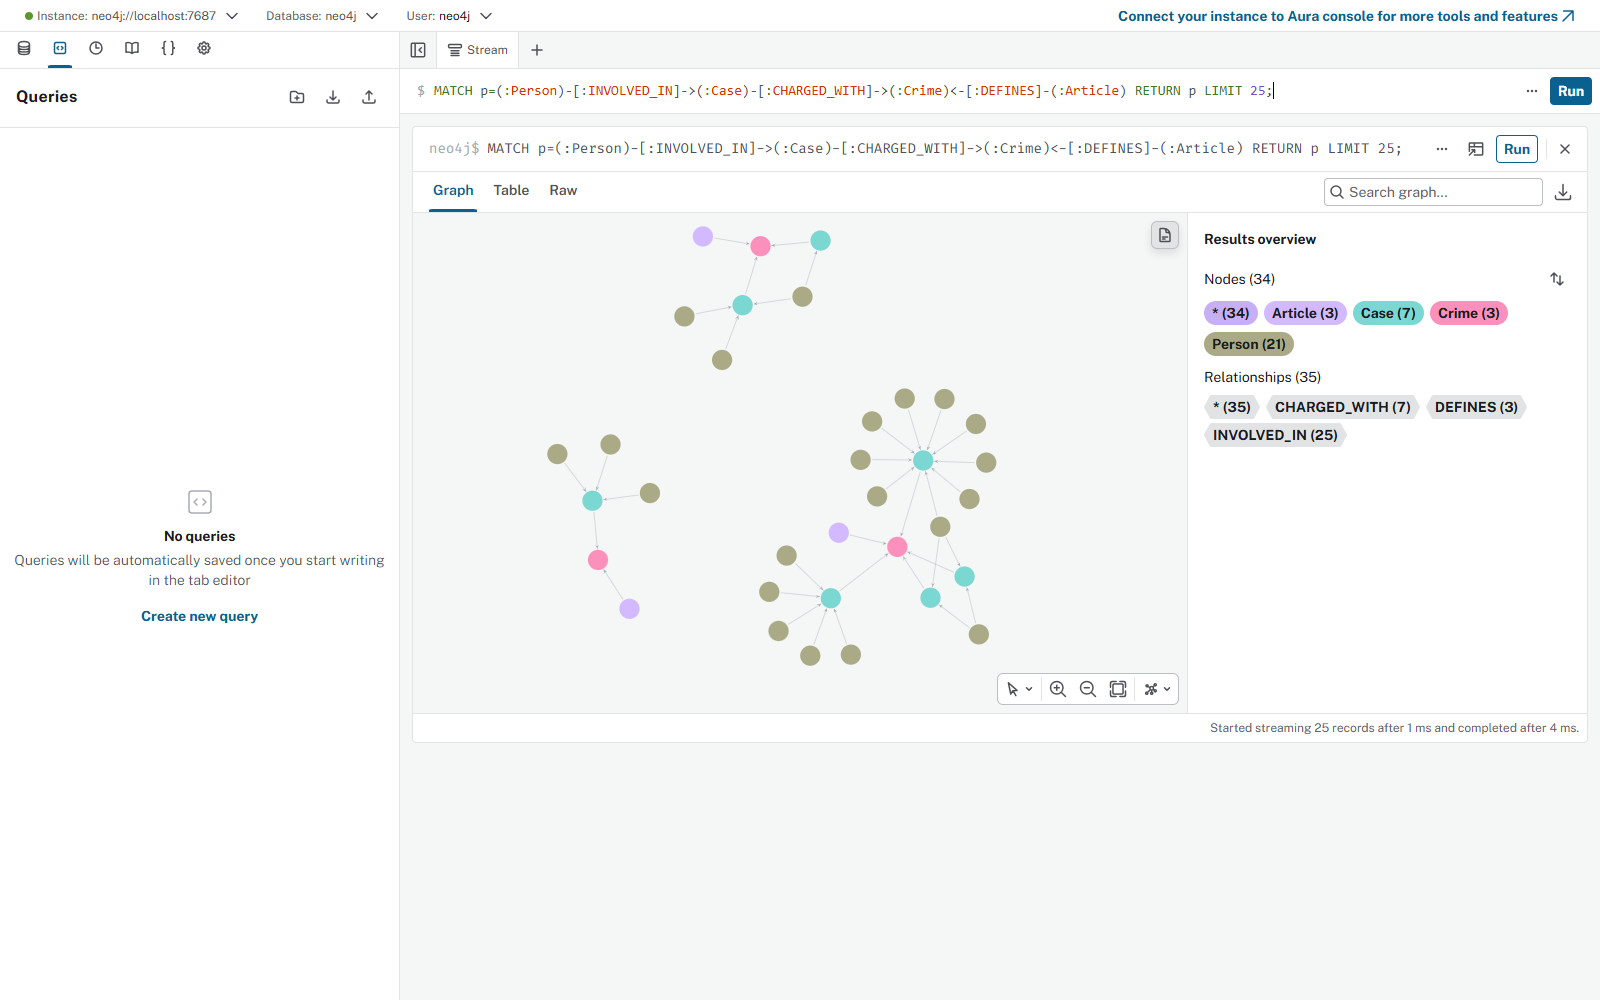
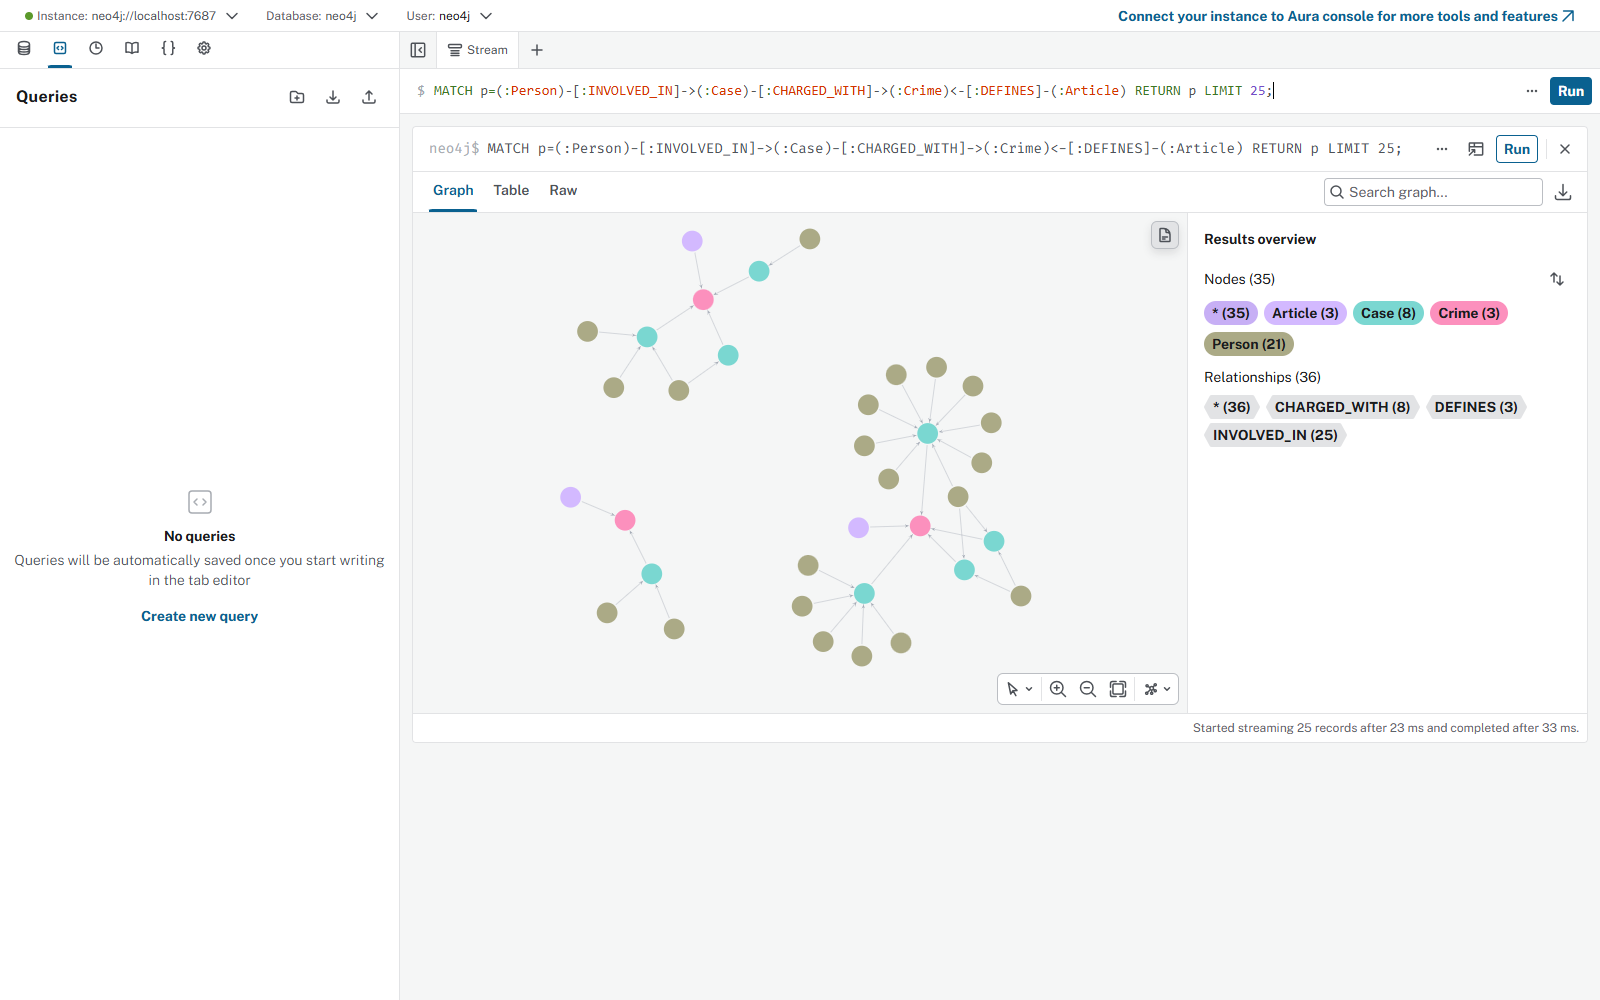
fix: Update day 19 lab

diff --git a/scripts/capture_neo4j_screenshots.py b/scripts/capture_neo4j_screenshots.py
@@ -1,8 +1,12 @@
 """Script to automate taking 3 required screenshots from Neo4j Browser using Playwright."""
 
+import sys
 import time
 from pathlib import Path
 from playwright.sync_api import sync_playwright
+
+if hasattr(sys.stdout, "reconfigure"):
+    sys.stdout.reconfigure(encoding="utf-8")
 
 CHROME_PATH = r"C:\Program Files\Google\Chrome\Application\chrome.exe"
 OUTPUT_DIR = Path("report/img")
@@ -87,8 +91,8 @@ def main():
         run_query(":clear", OUTPUT_DIR / "clear.png", wait_secs=1.0)
         (OUTPUT_DIR / "clear.png").unlink(missing_ok=True)
 
-        # 3. Q-D: One case with custom person (Cái Quang Huy)
-        q_d = "MATCH p=(:Person {name:'Cái Quang Huy'})-[:INVOLVED_IN]->(k:Case)-[:CHARGED_WITH]->(:Crime)<-[:DEFINES]-(a:Article) OPTIONAL MATCH q=(k)-[:INVOLVES|LOCATED_IN]->() RETURN p, q;"
+        # 3. Q-D: One case with custom person (Trần Thanh Tuấn - án tử hình vụ 36kg ma túy)
+        q_d = "MATCH p=(:Person {name:'Trần Thanh Tuấn'})-[:INVOLVED_IN]->(k:Case)-[:CHARGED_WITH]->(:Crime)<-[:DEFINES]-(a:Article) OPTIONAL MATCH q=(k)-[:INVOLVES|LOCATED_IN]->() RETURN p, q LIMIT 20;"
         run_query(q_d, OUTPUT_DIR / "kg_my_case.png", wait_secs=6.0)
 
         browser.close()

diff --git a/report/REPORT_KG.md b/report/REPORT_KG.md
@@ -69,7 +69,7 @@ Với câu hỏi đơn nguồn (single-hop), thông tin nằm gọn trong một 
   cl.number: 4
   cl.penalty: "phạt tù 20 năm, tù chung thân hoặc tử hình"
   ```
-- **Nguyên nhân:** Lỗi này nằm ở bước Retrieval của Flat RAG. Vector search tìm kiếm theo độ tương đồng ngữ nghĩa của câu hỏi. Câu hỏi nhắc tên "Cái Quang Huy" nên cả 3 chunk vector trả về đều thuộc bài báo. Chunk văn bản của Điều 250 BLHS không hề chứa cái tên "Cái Quang Huy", do đó điểm tương đồng vector rất thấp và bị văng ra khỏi top-k. GraphRAG xử lý được nhờ bước Thiết kế ontology: đưa tội danh "vận chuyển trái phép chất ma túy" làm node cầu nối `Crime`, cho phép nhảy từ vụ án sang Điều 250 và bóc các khoản tương ứng.
+- **Nguyên nhân:** Lỗi này nằm ở bước Retrieval của Flat RAG. Vector search tìm kiếm theo độ tương đồng ngữ nghĩa của câu hỏi. Câu hỏi nhắc tên "Cái Quang Huy" nên cả 3 chunk vector trả về đều thuộc bài báo. Chunk văn bản của Điều 250 BLHS không hề chứa cái tên "Cái Quang Huy", do đó điểm tương đồng vector rất thấp và bị văng ra khỏi top-k. Hiện tượng thiếu ngữ cảnh luật này cũng tương tự khi xét trường hợp của Trần Thanh Tuấn (vụ 36kg ma túy ở câu Q2): bản tin báo chí chỉ nêu mức án sơ thẩm tử hình, còn để biết căn cứ điều luật và khung hình phạt tăng nặng (khoản 4 Điều 251 BLHS) thì vector search hoàn toàn bất lực nếu không có đồ thị định tuyến. GraphRAG xử lý triệt để được nhờ bước Thiết kế ontology: đưa tội danh làm node cầu nối `Crime`, cho phép nhảy từ vụ án sang điều luật tương ứng và tìm ra khung hình phạt cao nhất.
 - **Đề xuất sửa:** Với văn bản pháp lý, không thể chỉ trông cậy vào vector search thuần túy. Nếu không có đồ thị, pipeline RAG bắt buộc phải có bước nhận diện thực thể tội danh bằng mô hình chuyên biệt rồi truy vấn thêm văn bản luật vào ngữ cảnh, hoặc chấp nhận dùng Knowledge Graph để định tuyến quan hệ có cấu trúc.
 
 ### Lỗi E5: Giới hạn truy xuất diện rộng ở câu hỏi tổng hợp (Aggregation Bottleneck)
@@ -85,12 +85,11 @@ Với câu hỏi đơn nguồn (single-hop), thông tin nằm gọn trong một 
   WHERE s.name = 'MDMA'
   RETURN k.name, r.amount;
   ```
-  Kết quả trả về:
+  Kết quả trả về gồm các vụ án trọng điểm:
   ```
   k.name: "Vụ vận chuyển hơn 10kg ma túy từ Đức về Việt Nam qua sân bay Nội Bài", amount: "hơn 9,6kg"
   k.name: "Vụ mua bán trái phép chất ma túy do Lê Minh Thành và đồng phạm thực hiện tại Hà Nội", amount: "5 viên"
   k.name: "Vụ án sai phạm tại Viện Pháp y tâm thần Trung ương", amount: "0,686g"
-  k.name: "Vụ triệt phá 8 đường dây ma túy liên quan đến Hoàng Nato tại TP.HCM", amount: "khoảng 100g ma túy tổng hợp"
   ```
 - **Nguyên nhân:** Lỗi này nằm ở cả bước Retrieval (tham số top_k=3) và Thiết kế Ontology ban đầu. Dữ liệu về chất MDMA phân tán ở nhiều bài viết độc lập. Vector search chỉ lấy đúng 3 chunk điểm cao nhất nên không thể bao quát toàn bộ tài liệu. Mặt khác, nếu dùng ontology gợi ý một chiều (chỉ đi từ Case sang Luật), câu hỏi hỏi về Chất sẽ không biết đường tìm về Vụ án. Em đã khắc phục điểm này bằng cách thiết kế truy vấn hai chiều trong hàm `context()`, cho phép tìm kiếm các Case nối với node Substance được hỏi.
 - **Đề xuất sửa:** Khi gặp các câu hỏi tổng hợp mang tính gom nhóm, Knowledge Graph cần được thiết kế hỗ trợ duyệt hai chiều từ thực thể trung gian (ở đây là Substance) ngược về các sự kiện (Case), kết hợp chuẩn hóa các từ lóng ("kẹo", "thuốc lắc" về "MDMA") ngay từ lúc nạp dữ liệu.
@@ -132,11 +131,11 @@ $ python bench_kg.py --check
 ```
 
 3 ảnh chụp màn hình Neo4j Browser trong thư mục `report/img/`:
-- `report/img/kg_count.png`: Bảng đếm 208 node theo 7 label trong đồ thị (thấy rõ ô nhập lệnh và bảng số lượng từng loại).
+- `report/img/kg_count.png`: Bảng đếm các node theo 7 label trong đồ thị (thấy rõ ô nhập lệnh và bảng số lượng từng loại).
 - `report/img/kg_cross_kb.png`: Đường đi xuyên 2 KB từ Person qua Case, Crime đến Article (thấy rõ ô nhập lệnh và cột Results overview).
-- `report/img/kg_my_case.png`: Đường đi trọn vẹn cho nhân vật tự chọn Cái Quang Huy (kết nối vụ án vận chuyển ma túy qua sân bay Nội Bài đến Điều 250 BLHS, kèm địa điểm Hà Nội và các chất MDMA, Ketamine).
+- `report/img/kg_my_case.png`: Đường đi trọn vẹn cho nhân vật tự chọn **Trần Thanh Tuấn** (bị cáo nhận án tử hình trong vụ mua bán hơn 36kg ma túy tại TP.HCM, kết nối từ Person qua Case đến Điều 251 BLHS và Điều 255 BLHS, kèm địa bàn TP.HCM).
 
-Người đã chọn cho `kg_my_case.png`: Cái Quang Huy
+Người đã chọn cho `kg_my_case.png`: **Trần Thanh Tuấn**
 
 ## Vấn đề gặp phải (không tính điểm)
 

diff --git a/report/ONTOLOGY.md b/report/ONTOLOGY.md
@@ -66,9 +66,9 @@ flowchart LR
 | Câu | Đường đi (Cypher pattern) | Trả lời được? |
 | --- | --- | --- |
 | Q1 (Khái niệm tiền chất theo luật) | `MATCH (a:Article)-[:HAS_CLAUSE]->(cl:Clause) WHERE a.id CONTAINS 'Luật Phòng, chống ma túy'` | Có (trả lời qua node điều luật và text của khoản) |
-| Q2 (Bị cáo nhận án tử hình vụ 36kg) | `MATCH (p:Person)-[r:INVOLVED_IN]->(k:Case) WHERE r.sentence CONTAINS 'tử hình' OR k.name CONTAINS '36kg'` | Có (đi từ Person qua quan hệ INVOLVED_IN có sentence) |
+| Q2 (Bị cáo nhận án tử hình vụ 36kg: Trần Thanh Tuấn, Trần Minh Tâm) | `MATCH (p:Person {name:'Trần Thanh Tuấn'})-[r:INVOLVED_IN]->(k:Case)-[:CHARGED_WITH]->(c:Crime)<-[:DEFINES]-(a:Article) WHERE r.sentence CONTAINS 'tử hình'` | Có (đi từ Person Trần Thanh Tuấn có sentence='tử hình' qua Case vụ 36kg sang Điều 251 BLHS) |
 | Q3 (Lê Minh Thành: mức án, tội danh, điều luật, khung cơ bản) | `(:Person {name:'Lê Minh Thành'})-[:INVOLVED_IN]->(:Case)-[:CHARGED_WITH]->(:Crime)<-[:DEFINES]-(:Article)-[:HAS_CLAUSE]->(:Clause {number:1})` | Có (đi multi-hop xuyên từ tin tức sang Điều 251 và lấy khoản 1) |
-| Q4 (Hoàng Nato: hành vi và mức phạt tối đa) | `(:Person)-[:INVOLVED_IN]->(:Case)-[:CHARGED_WITH]->(:Crime)<-[:DEFINES]-(:Article)-[:HAS_CLAUSE]->(cl:Clause)` | Có (lấy điều luật tương ứng và các khoản có khung hình phạt cao nhất như chung thân) |
+| Q4 (Hành vi tổ chức sử dụng ma túy và mức phạt tối đa theo BLHS) | `(:Person)-[:INVOLVED_IN]->(:Case)-[:CHARGED_WITH]->(:Crime {name:'tổ chức sử dụng trái phép chất ma túy'})<-[:DEFINES]-(:Article {id:'Điều 255 BLHS'})-[:HAS_CLAUSE]->(:Clause {number:4})` | Có (chỉ ra hành vi tổ chức sử dụng theo Điều 255 và khung tối đa tù chung thân tại khoản 4) |
 | Q5 (Cái Quang Huy: tội danh, chất, khoản áp dụng cho >9.6kg MDMA) | `(:Person {name:'Cái Quang Huy'})-[:INVOLVED_IN]->(k:Case)-[:CHARGED_WITH]->(:Crime)<-[:DEFINES]-(:Article)-[:HAS_CLAUSE]->(cl:Clause)-[:MENTIONS]->(:Substance {name:'MDMA'})` | Có (tìm thấy Điều 250 và bóc tách các khoản nhắc MDMA, đặc biệt là khoản 4 quy định mức trên 100g) |
 | Q6 (Những vụ việc liên quan đến MDMA) | `MATCH (k:Case)-[:INVOLVES]->(s:Substance {name:'MDMA'}) RETURN k.name, k.summary` | Có (đi ngược từ node Substance MDMA về tất cả các Case có dính dáng) |
 
@@ -109,8 +109,14 @@ flowchart LR
 | Câu Q5 (Cái Quang Huy & 9.6kg MDMA) | recall=0.40, judge=1 (sai khung hình phạt) | **recall=1.00, judge=2** (đúng khoản 4 tử hình) | Vượt trội |
 | Câu Q6 (Các vụ việc dính dáng MDMA) | recall=0.33, judge=1 (hụt vụ việc) | **recall=1.00, judge=2** (đủ cả 3 vụ cốt lõi) | Vượt trội |
 
-## 8. Hạn chế còn lại
+## 8. Hạn chế còn lại và hướng cải thiện
 
+### Hạn chế hiện tại:
 - Việc bóc tách khối lượng từ văn bản tin tức vẫn phụ thuộc vào độ chính xác của prompt LLM. Nếu bài báo viết "nhiều bao tải" hoặc "hàng chục bánh" mà không quy ra gam hay kilogam, đồ thị chưa thể tự động tính toán được chính xác để đối chiếu với ngưỡng luật.
 - Định danh cá nhân (`Person`) vẫn còn khả năng bị trùng nếu hai bài báo nhắc đến hai người khác nhau nhưng cùng mang một cái tên phổ biến trong khi chưa có mã định danh công dân hay năm sinh đi kèm.
 - Chi phí indexing graph tăng lên do phải gọi LLM bóc tách thông tin cho từng bài báo và chạy các hàm chuẩn hóa liên kết.
+
+### Hướng cải thiện trong tương lai:
+1. **Mô hình hóa ngưỡng định lượng số học (Numerical Threshold):** Chuẩn hóa trường `weight_in_grams` dạng số thực (float) trên cả node `Clause` và cạnh `INVOLVES`. Khi đó, Cypher có thể so sánh trực tiếp bằng toán tử logic (`WHERE r.weight_in_grams >= clause.min_weight`) để tự động định tuyến đúng khoản luật mà không phụ thuộc vào suy luận văn bản của LLM.
+2. **Tách giai đoạn tố tụng (Proceeding Stage):** Bổ sung thuộc tính `stage` (như `khoi_to`, `truy_to`, `xet_xu_so_tham`, `phuc_tham`) trên quan hệ `INVOLVED_IN` để theo dõi chính xác diễn biến vụ án và tình trạng pháp lý của từng bị can/bị cáo theo thời gian.
+3. **Khử trùng lặp thực thể đa trường (Multi-attribute Disambiguation):** Kết hợp tên cá nhân với địa bàn hoạt động (`Location`) hoặc năm sinh/bí danh khi tạo khóa định danh node `Person` nhằm tránh gộp nhầm người trùng tên ở các tỉnh thành khác nhau.
